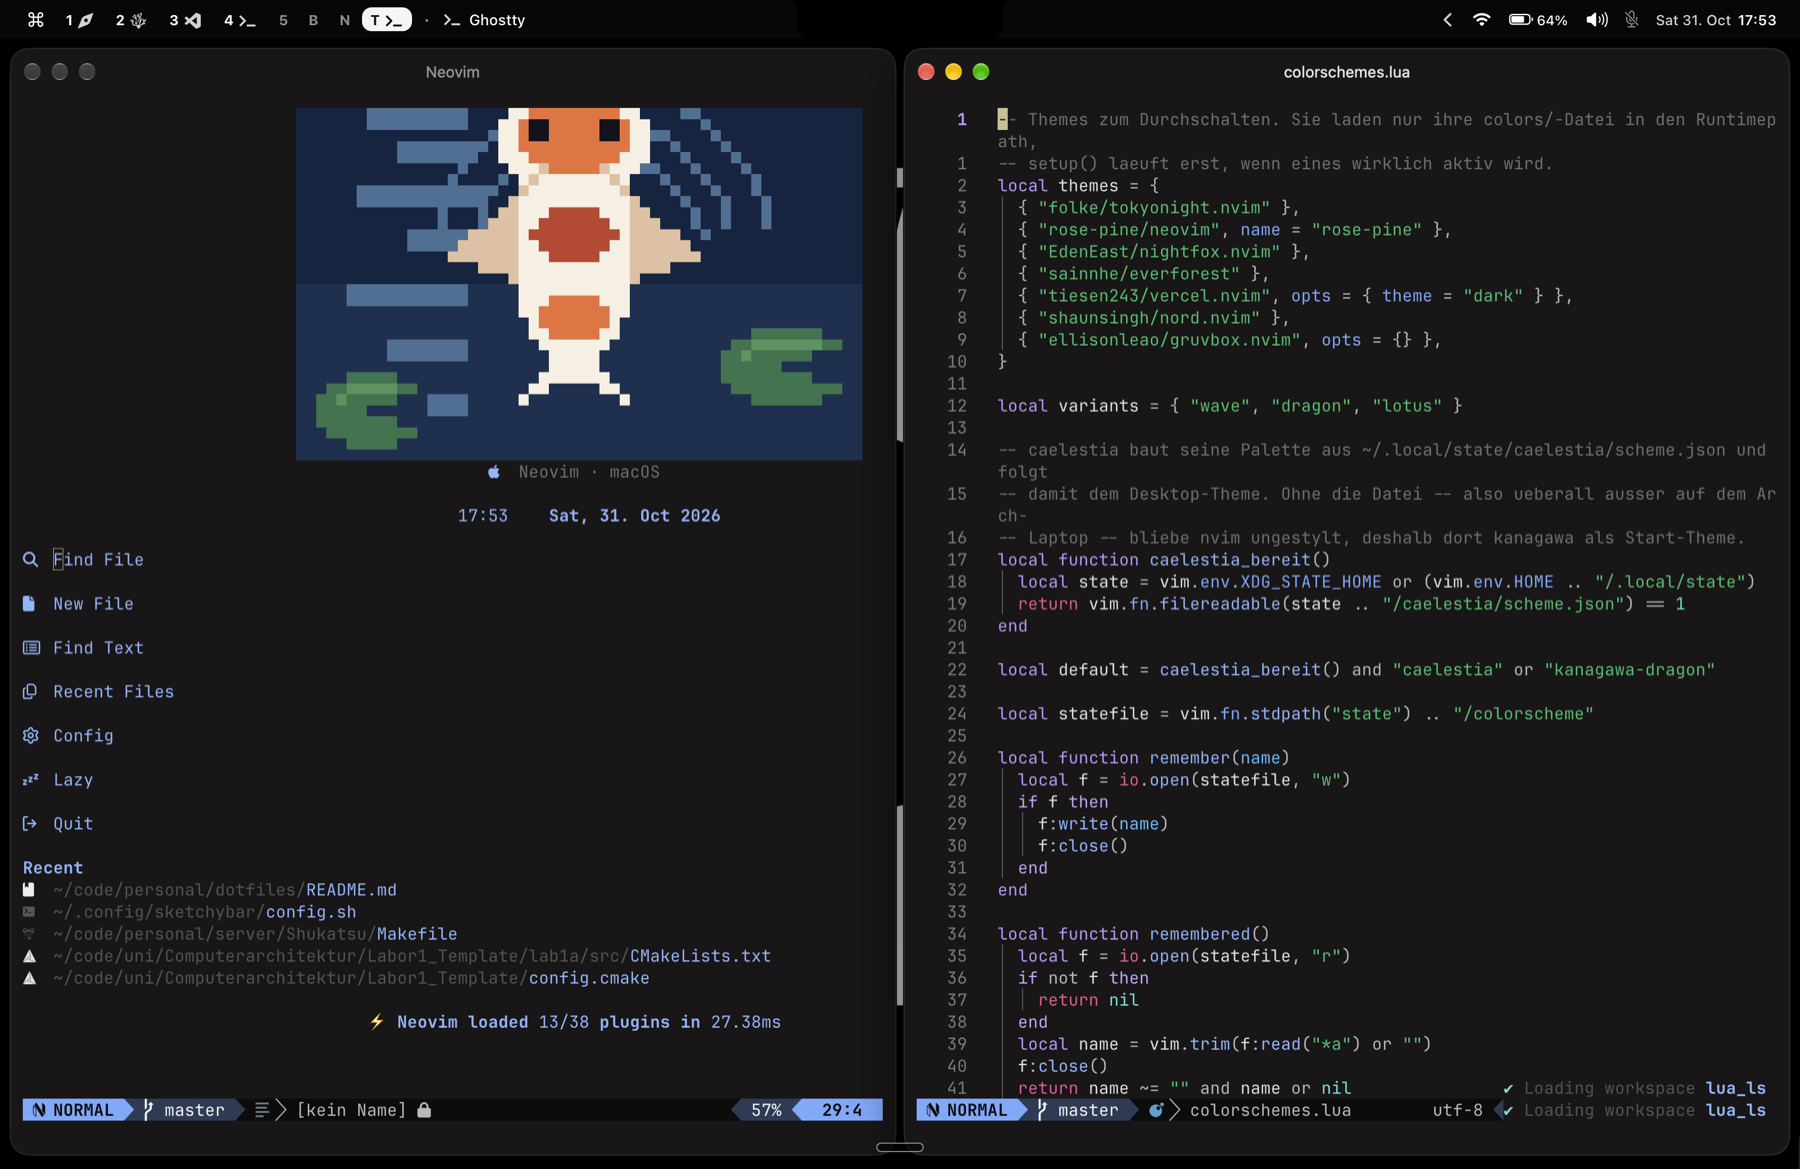
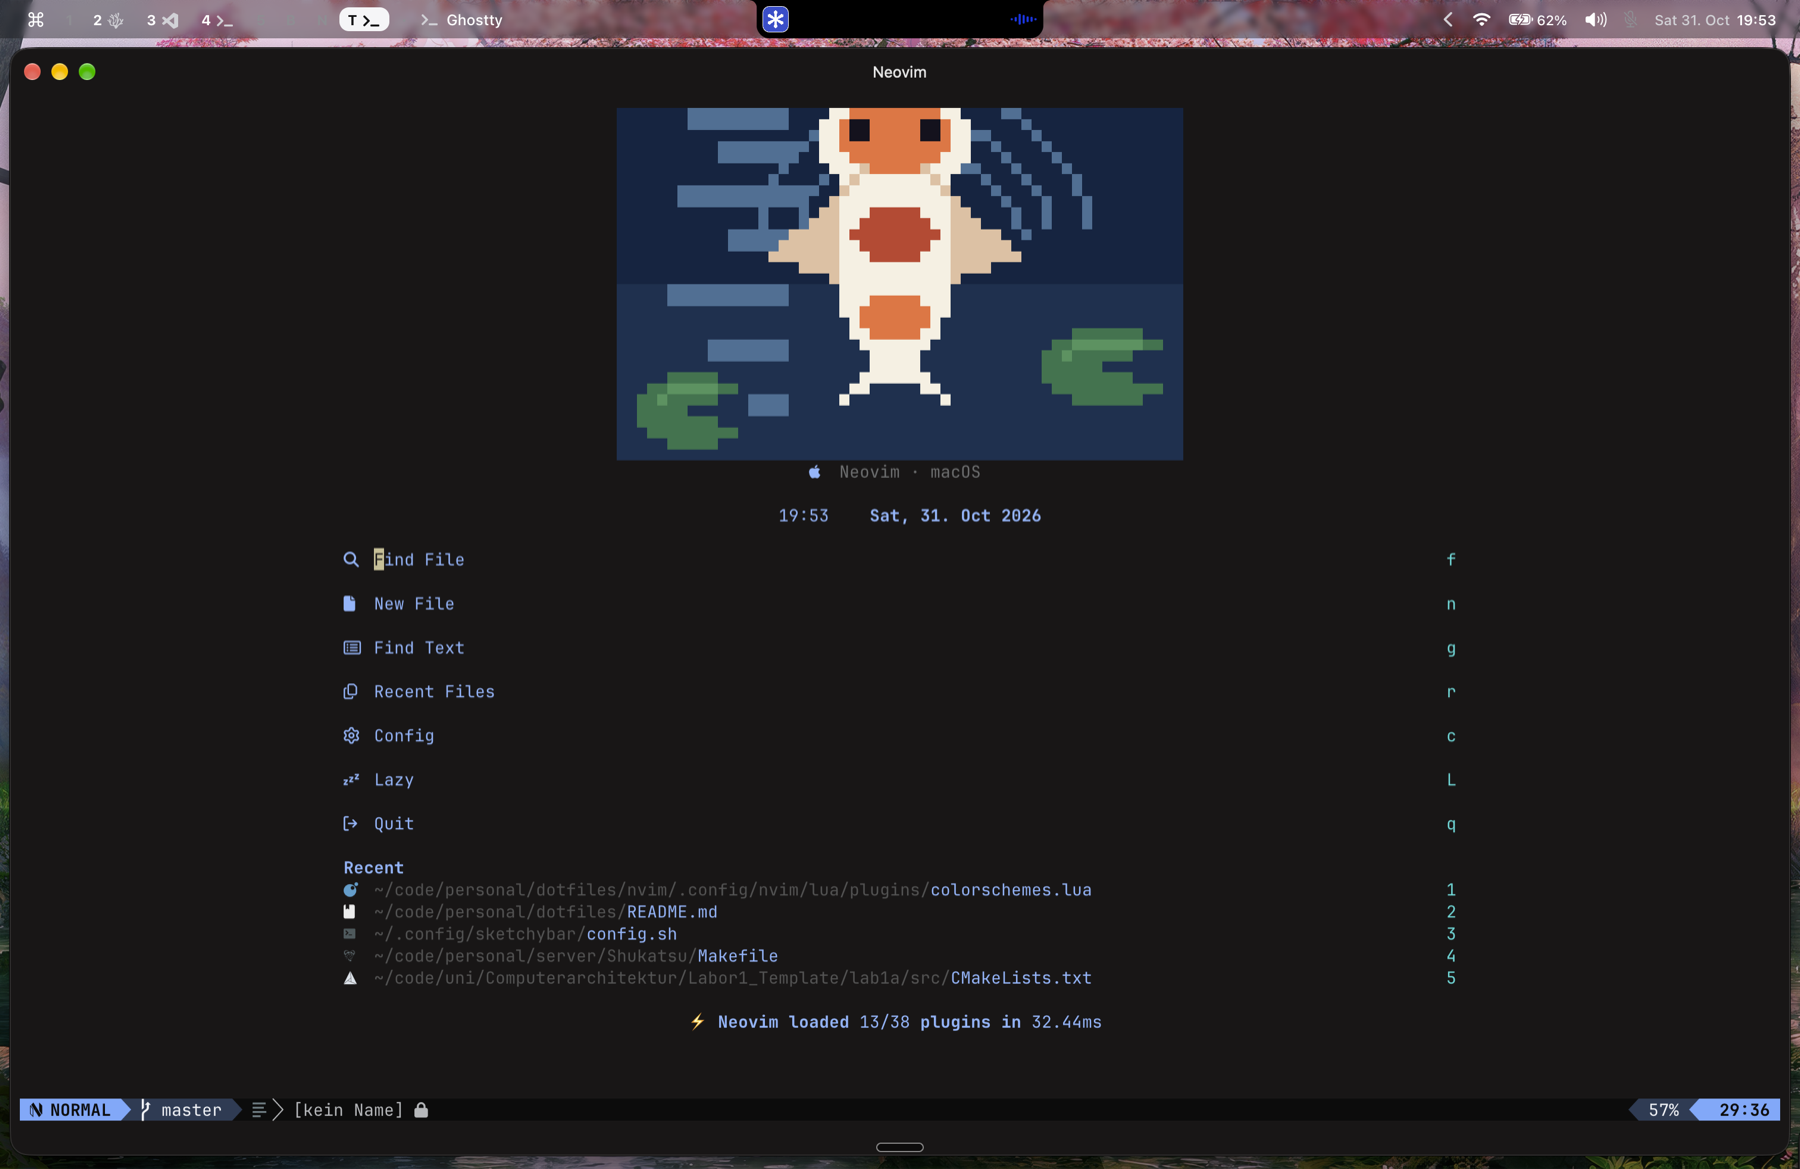
docs: use two separate single-window screenshots in README

diff --git a/README.md b/README.md
@@ -2,7 +2,10 @@
 
 Meine macOS-Entwicklungsumgebung und System-Konfiguration für **Neovim**, **tmux**, **Zellij**, **AeroSpace** und **SketchyBar** – verwaltet über ein zentrales `install.sh`-Skript (kompatibel mit GNU Stow und direkten Symlinks).
 
-![Desktop-Setup mit SketchyBar, AeroSpace und Neovim](docs/images/desktop-setup.png)
+<p align="center">
+  <img src="docs/images/desktop-setup.png" width="49%" alt="Neovim Dashboard mit SketchyBar und AeroSpace" />
+  <img src="docs/images/neovim-editor.png" width="49%" alt="Neovim Editor Ansicht" />
+</p>
 
 ## Inhalt
 
